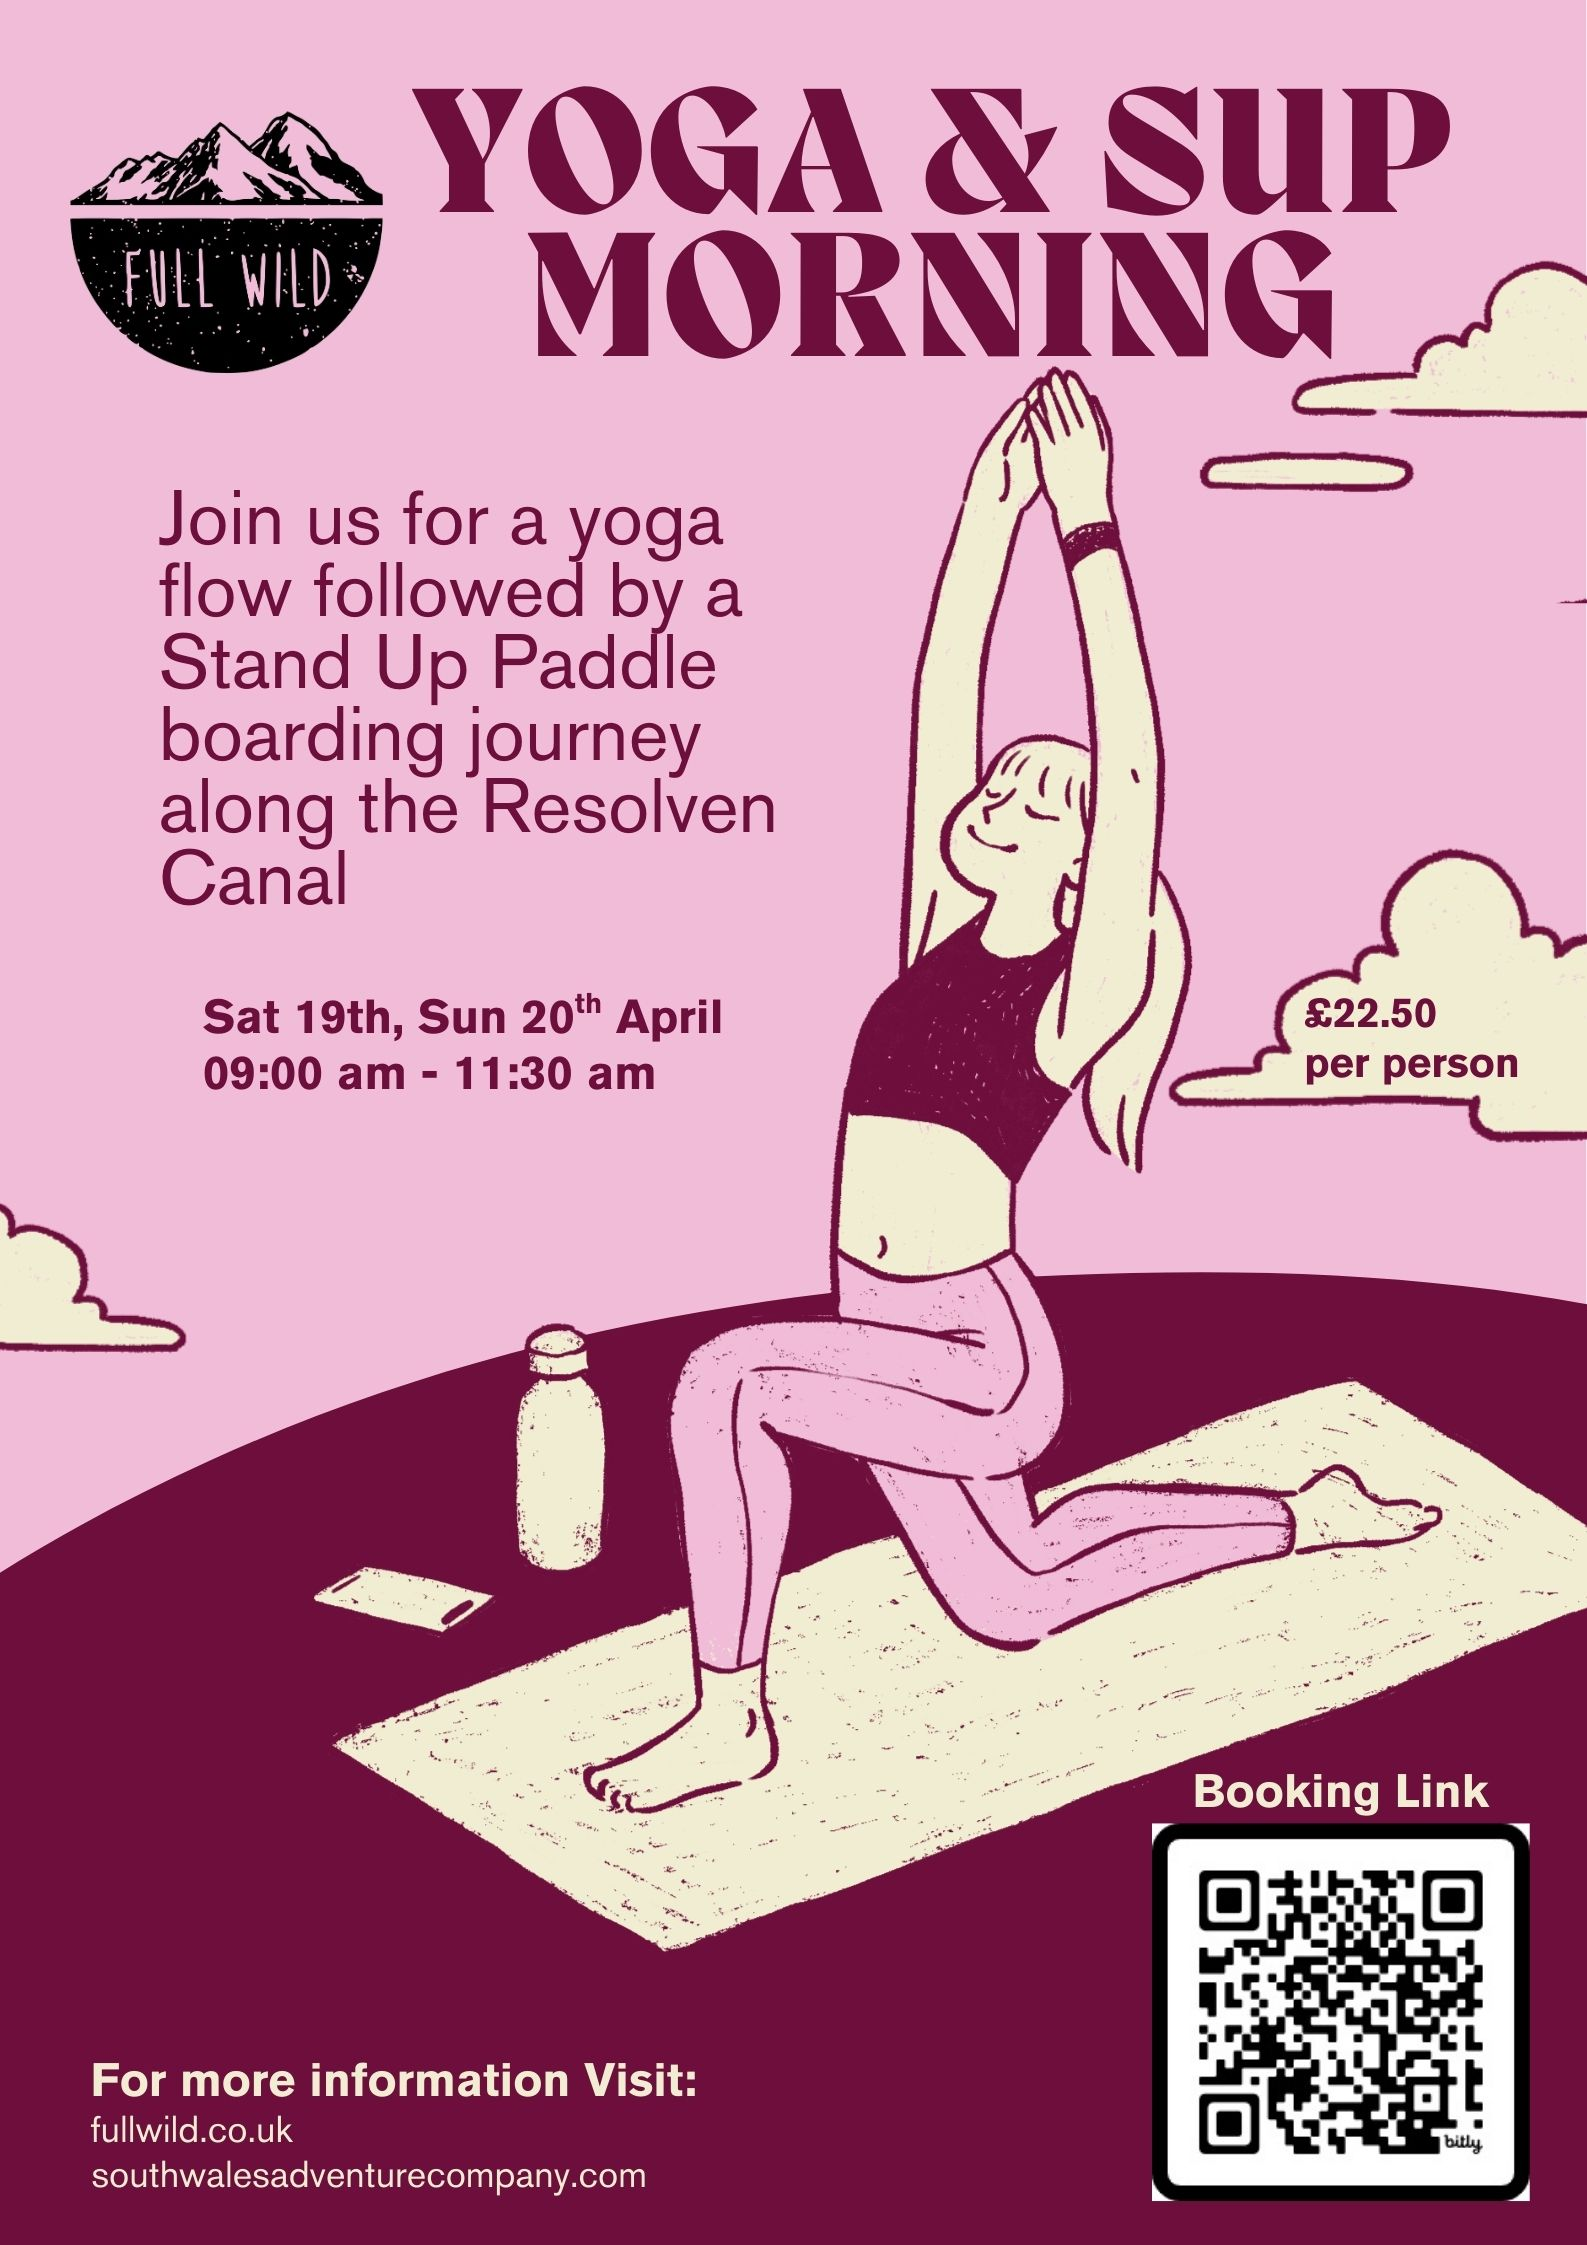
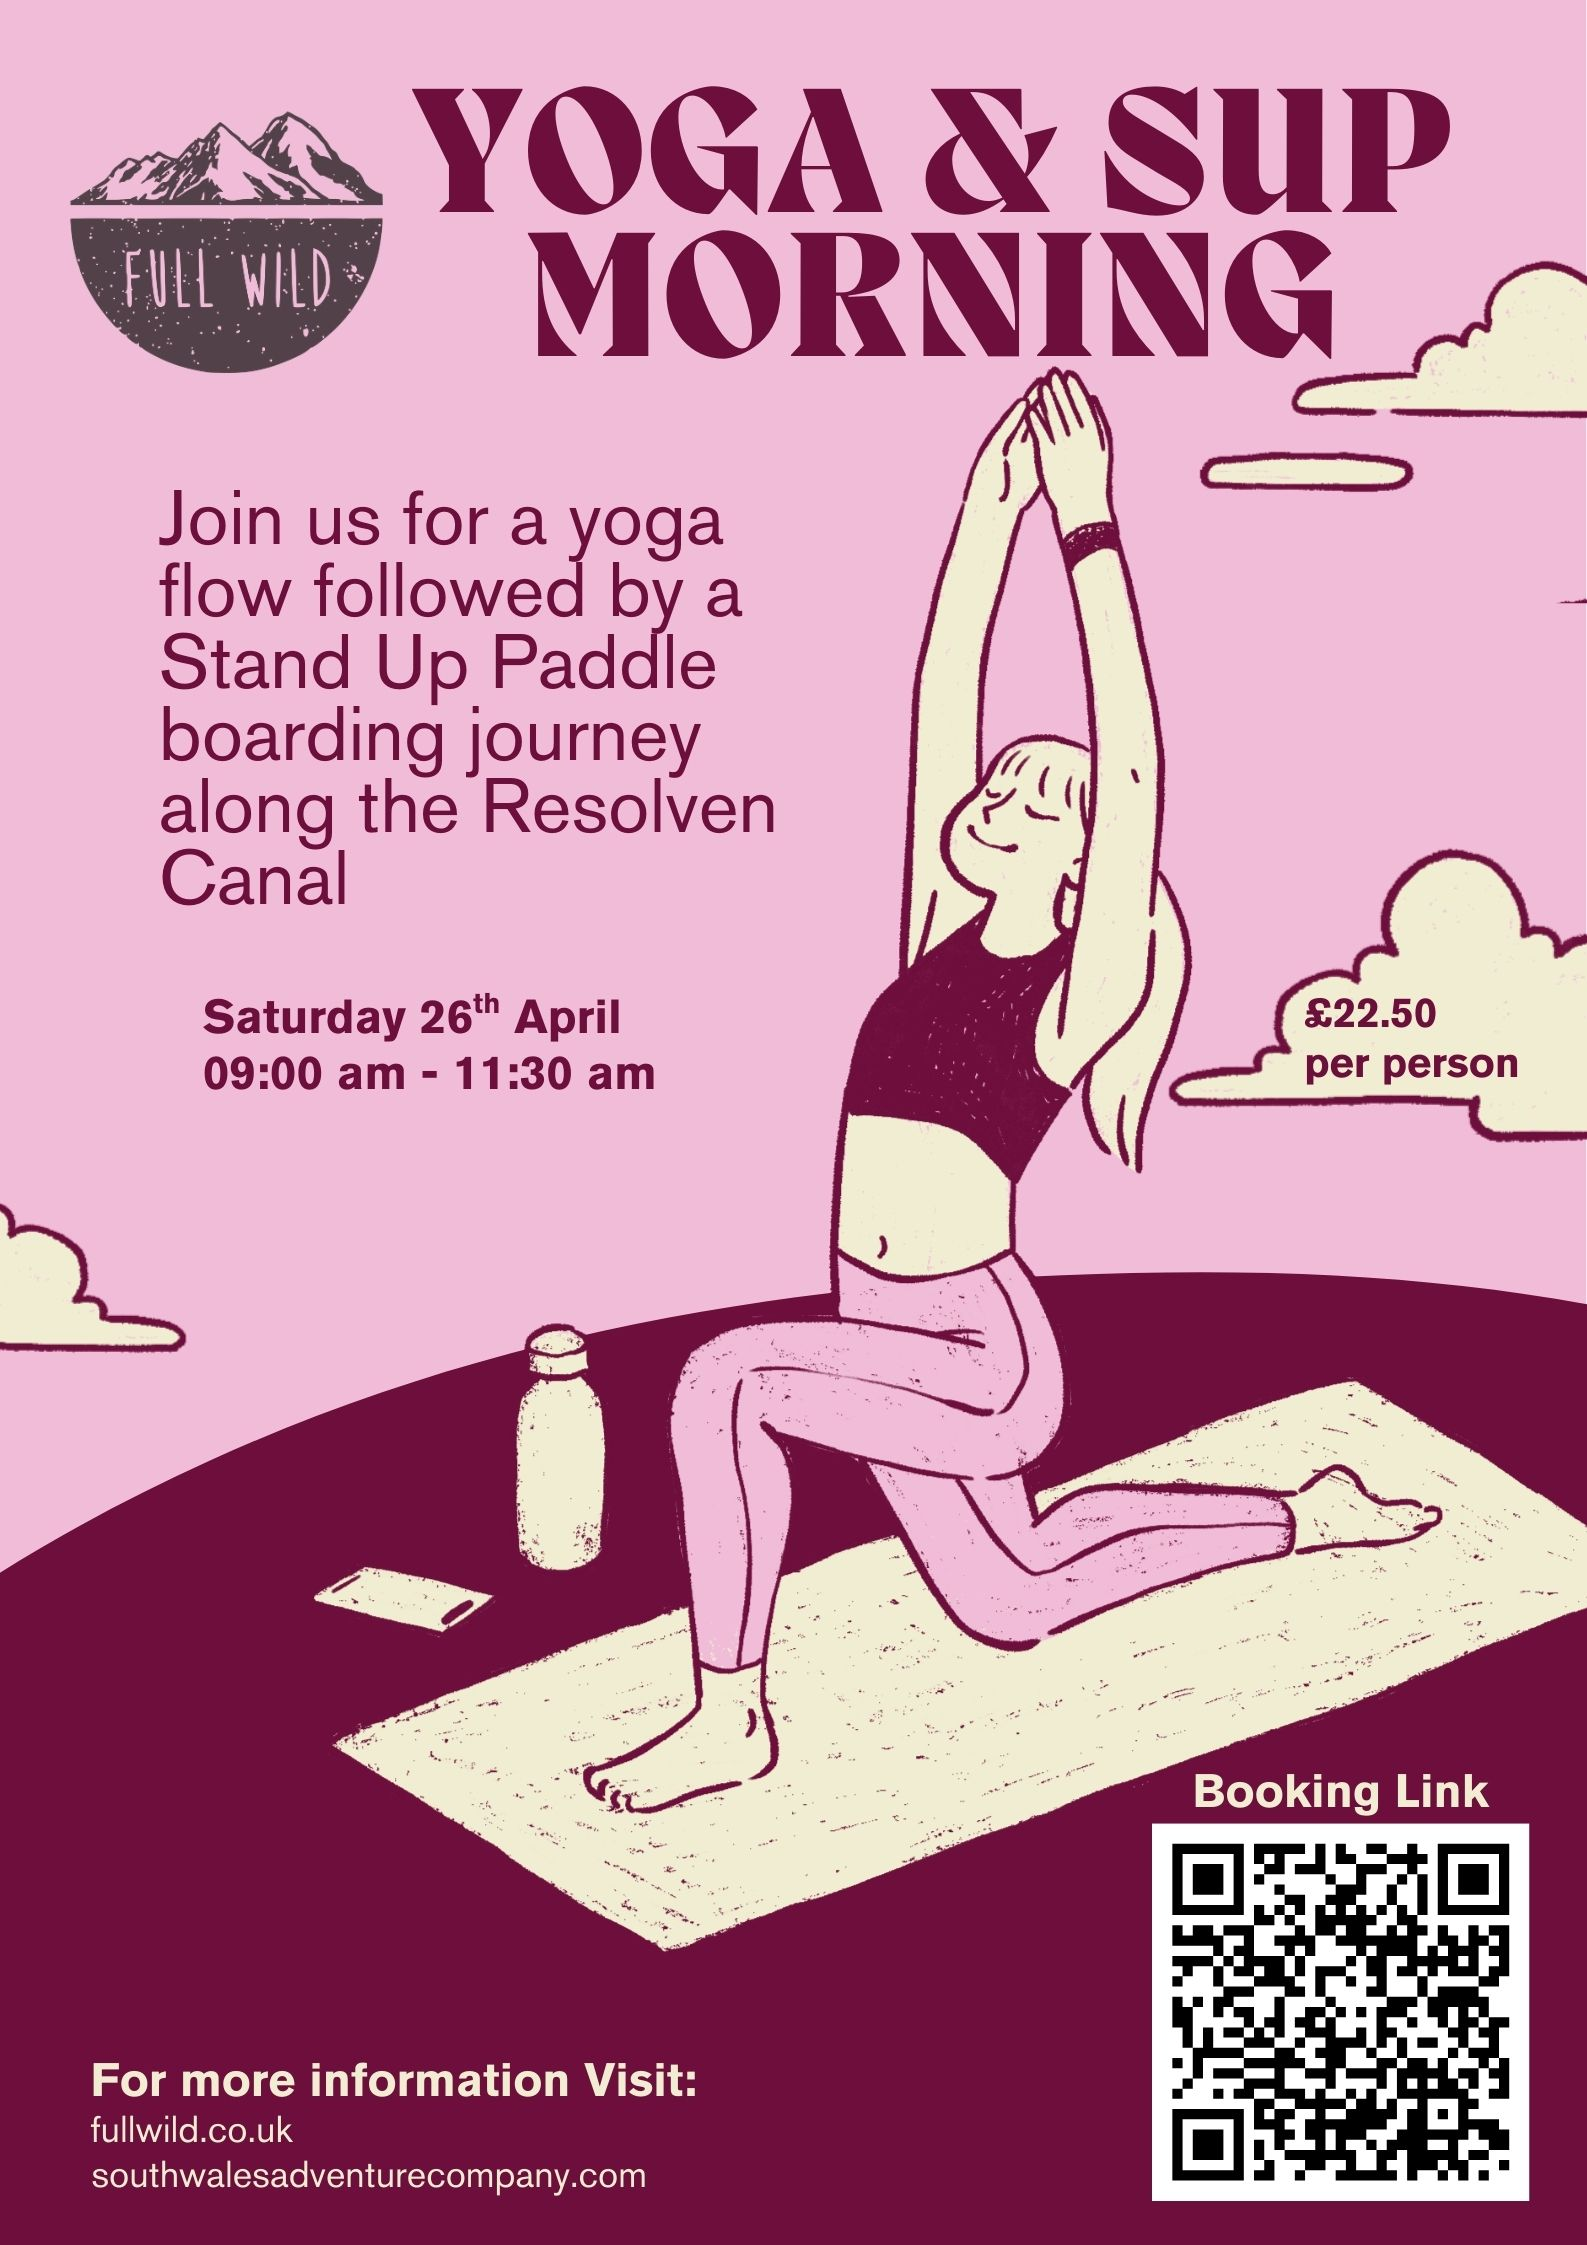
Update: Update to include the next SUP/Yoga event
Include full details for the next SUP/Yoga event in resolven

Changed region(s): [[0.7101, 0.8107, 0.988, 0.9978], [0.0309, 0.0312, 0.247, 0.1871], [0.1853, 0.4365, 0.4631, 0.4677]]

diff --git a/events.md b/events.md
@@ -7,12 +7,18 @@ bodyClass: page-about
 
 Below you can find information about some of our upcoming events, this page will be updated as new events are announced. Please also find upcoming event information on our instagram!
 
-![Yog & Sup with SWAC](/images/events/full_wild_yoga_easter_yoga_and_sup_resolven.jpg)
+# Yoga & Sup Morning (with South Wales Adventure Company)
 
-# Yoga & Sup Monring (with South Wales Adventure Company)
+![Yog & Sup with SWAC](/images/events/full_wild_yoga_easter_yoga_and_sup_resolven.jpg)
 
 join us for a yoga flow followed by a Stand Up Paddle boarding journey along with Resolven Canal, in partnership with South Wales Adventure Company. £22.50 per person.
 
-Saturday 19th and Sunday 20th April 09:00am - 11:30am
+The first hour of the session will start with a vinyasa flow suitable for all abilities which will be delivered on land overlooking the River Neath. This will be followed by a journey on the Stand Up Paddle Board along the Neath Canal at the Resolven Basin where we can either continue our practice or enjoy a social paddle taking in the tranquil beauty of the canal.
 
-Booking Link coming soon!
+The meeting place will be at Ty Banc and there will be an opportunity to purchase refreshments from The Basin Café where there is ample free parking. Yoga Mats, blocks, SUP boards and buoyancy aids will be provided for the morning. 
+
+Just so you know, you will be on the water and there is a chance you will get wet!
+
+Saturday 26th April 09:00am - 11:30am
+
+[Booking Link](https://www.southwalesadventurecompany.com/yoga)
